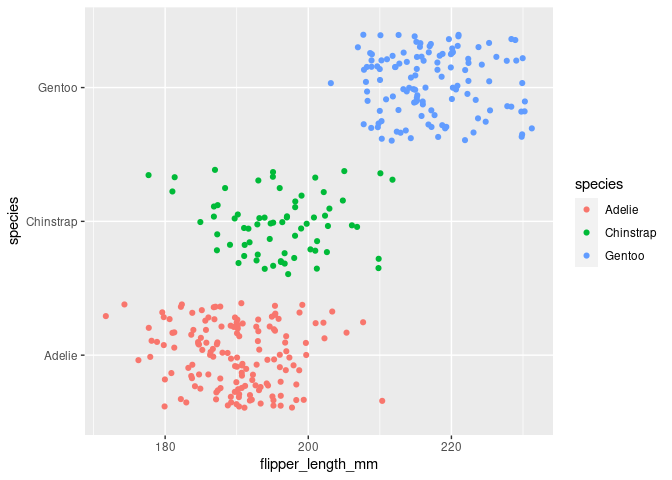
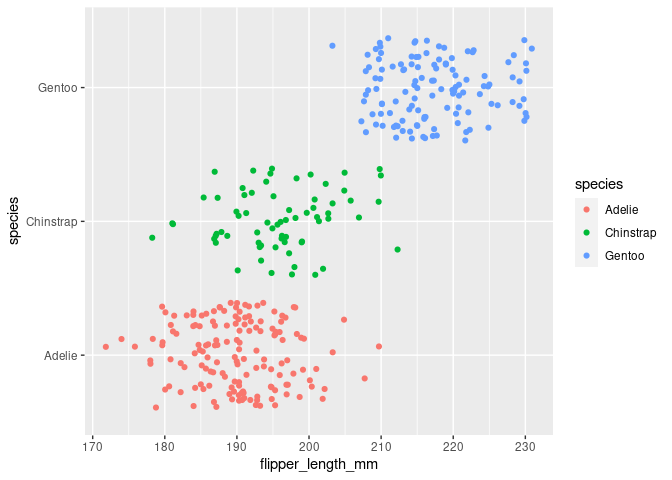
Activity 2 through uncolored boxplots plotted with colored scatterplots.

diff --git a/activity02-ggplot2-intro.md b/activity02-ggplot2-intro.md
@@ -194,7 +194,8 @@ and compare/contrast your `activity02-ggplot2-intro.Rmd` and
 `activity02-ggplot2-intro.md` files. Which is easier to read? Which
 looks more professional?
 
-**Response**:
+**Response**: The .md file is much more readable and professional. It
+looks like a document you could use for work.
 
 Now, wouldn’t it be nice if we could combine these two plots so that we
 get the benefits of both!?! That is, how can we overlay the jitterplot
@@ -204,10 +205,23 @@ my *hint*:
 -   Re-create the boxplot with color that you did above, then
 -   *Add* another geometry layer for the jitterplot.
 
+``` r
+ggplot(data = penguins, mapping = aes(x = flipper_length_mm, y = species, color = species)) +
+  geom_boxplot() +
+  geom_jitter()
+```
+
+    ## Warning: Removed 2 rows containing non-finite values (stat_boxplot).
+
+    ## Warning: Removed 2 rows containing missing values (geom_point).
+
+![](activity02-ggplot2-intro_files/figure-gfm/box-jitter-combined-1.png)<!-- -->
+
 Play around with doing the jitterplot laid over the boxplot and the
 boxplot laid over the jitterplot. Which do you prefer? Why?
 
-**Response**:
+**Response**: I prefer laying the jitter plot over the boxplot as this
+shows me more information about both plots.
 
 This is getting us closer to one of my favorite plots - the raincloud
 plot. We are not quite ready to create this plot, but we will get there
@@ -221,12 +235,26 @@ default white coloring. In the code chunk below, explore different
 methods to try to create this plot. A hint, all `geom_*` have a
 `mapping` argument.
 
+``` r
+ggplot(data = penguins, mapping = aes(x = flipper_length_mm, y = species)) +
+  geom_boxplot() +
+  geom_jitter(mapping = aes(color = species))
+```
+
+    ## Warning: Removed 2 rows containing non-finite values (stat_boxplot).
+
+    ## Warning: Removed 2 rows containing missing values (geom_point).
+
+![](activity02-ggplot2-intro_files/figure-gfm/jitter-colored-only-1.png)<!-- -->
+
 In the above code chunk, continue to play around with having the
 aesthetics mapped in the different layers. For example, how does having
 all of them mapped in the `ggplot` call compared to having these instead
 mapped in the `geom_boxplot` layer? Comment on what you notice.
 
-**Response**:
+**Response**: Placing the aesthetics in the ggplot function applies to
+all geom layers. Placing the aesthetics in a single geom function, only
+applies to that layer.
 
 Knit, stage, commit (with a meaningful commit message),and push
 everything in your **Git** pane to your GitHub repo. Go to GitHub and
